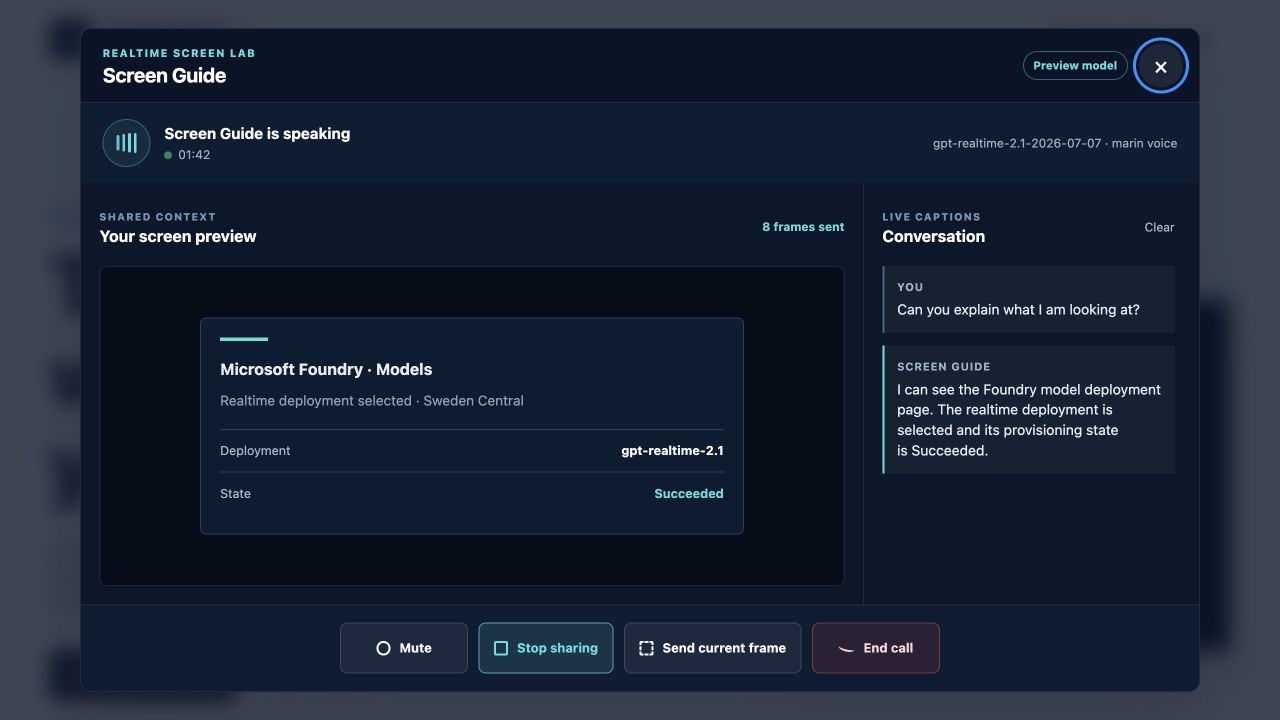
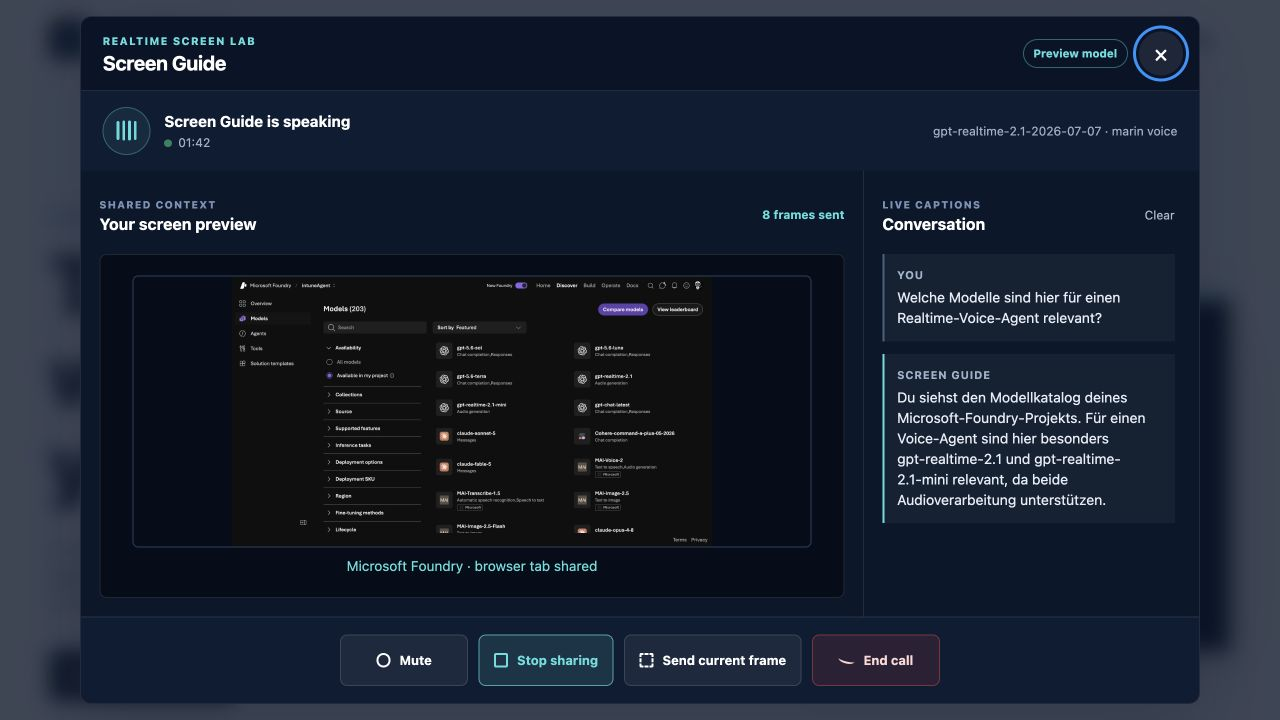
Improve screen sharing preview and language matching

diff --git a/examples/realtime-voice-screen-share/web/app.js b/examples/realtime-voice-screen-share/web/app.js
@@ -92,7 +92,7 @@ function blobToDataUrl(blob) {
 }
 
 async function sendLocalE2EProbe() {
-  const response = await fetch("/docs/realtime-screen-lab-hero.png", { cache: "no-store" });
+  const response = await fetch("/docs/azure-foundry-models.png", { cache: "no-store" });
   if (!response.ok) throw new Error("The browser test screenshot is missing.");
   const imageUrl = await blobToDataUrl(await response.blob());
   const sent = sendEvent({
@@ -101,8 +101,8 @@ async function sendLocalE2EProbe() {
       type: "message",
       role: "user",
       content: [
-        { type: "input_image", image_url: imageUrl, detail: "low" },
-        { type: "input_text", text: "This is a browser screenshot. State the large headline and one privacy boundary visible on the page. Be concise." },
+        { type: "input_image", image_url: imageUrl, detail: "high" },
+        { type: "input_text", text: "Das ist ein Browser-Screenshot aus Microsoft Foundry. Erkläre mir auf Deutsch, welche Modellübersicht ich sehe und nenne zwei Modelle, die für einen Realtime-Voice-Agent relevant sind. Antworte kurz." },
       ],
     },
   });
@@ -110,13 +110,13 @@ async function sendLocalE2EProbe() {
   state.framesSent = 1;
   elements.frameCount.textContent = "1 frame sent";
   elements.screenEmpty.innerHTML = `
-    <img class="e2e-image" src="/docs/realtime-screen-lab-hero.png" alt="Browser screenshot sent to the live Realtime session">
-    <p class="e2e-note">Browser E2E fixture · sent as <code>input_image</code></p>`;
-  addMessage("user", "What is the main headline and one privacy boundary shown in this screenshot?");
+    <img class="e2e-image" src="/docs/azure-foundry-models.png" alt="Microsoft Foundry model catalog sent to the live Realtime session">
+    <p class="e2e-note">Azure browser screenshot · sent as <code>input_image</code></p>`;
+  addMessage("user", "Welche Modellübersicht sehe ich hier und welche Modelle sind für einen Realtime-Voice-Agent relevant?");
   sendEvent({
     type: "response.create",
     response: {
-      instructions: "Answer from the supplied image only. State the large headline and one privacy boundary visible on the page in two short sentences.",
+      instructions: "Antworte ausschließlich auf Deutsch und stütze dich nur auf den bereitgestellten Screenshot. Beschreibe die sichtbare Microsoft-Foundry-Modellübersicht und nenne zwei sichtbare Modelle, die für einen Realtime-Voice-Agent relevant sind. Antworte in höchstens drei kurzen Sätzen.",
     },
   });
 }
@@ -339,7 +339,7 @@ async function startSession() {
       sendEvent({
         type: "response.create",
         response: {
-          instructions: "Greet the user in one short sentence and explain that you can discuss a screen after they explicitly share it.",
+          instructions: "Give one short welcome and explain that you can discuss a screen after the user explicitly shares it. For every later answer, use the language of the user's latest spoken question.",
         },
       });
     }
@@ -396,7 +396,7 @@ function captureFrame(force = false) {
     item: {
       type: "message",
       role: "user",
-      content: [{ type: "input_image", image_url: imageUrl, detail: "low" }],
+      content: [{ type: "input_image", image_url: imageUrl, detail: force ? "high" : "low" }],
     },
   });
   if (!sent) return false;
@@ -451,7 +451,7 @@ async function startScreenShare() {
       sendEvent({
         type: "response.create",
         response: {
-          instructions: "A screen frame was shared. Confirm that you can see it, describe only the high-level visible context, and ask what the user wants to inspect.",
+          instructions: "A screen frame was shared. In the language of the user's latest spoken turn, confirm that you can see it, describe only the high-level visible context, and ask what the user wants to inspect. If there is no spoken turn yet, keep the confirmation very short.",
         },
       });
     };
@@ -559,15 +559,10 @@ function openPreviewMode() {
   elements.share.querySelector("span:last-child").textContent = "Stop sharing";
   elements.sendFrame.disabled = false;
   elements.screenEmpty.innerHTML = `
-    <div class="demo-context" aria-label="Illustrative shared screen preview">
-      <span class="demo-bar"></span>
-      <strong>Microsoft Foundry · Models</strong>
-      <p>Realtime deployment selected · Sweden Central</p>
-      <div><span>Deployment</span><b>gpt-realtime-2.1</b></div>
-      <div><span>State</span><b class="demo-success">Succeeded</b></div>
-    </div>`;
-  addMessage("user", "Can you explain what I am looking at?");
-  addMessage("agent", "I can see the Foundry model deployment page. The realtime deployment is selected and its provisioning state is Succeeded.");
+    <img class="e2e-image" src="/docs/azure-foundry-models.png" alt="Microsoft Foundry model catalog shared with Screen Guide">
+    <p class="e2e-note">Microsoft Foundry · browser tab shared</p>`;
+  addMessage("user", "Welche Modelle sind hier für einen Realtime-Voice-Agent relevant?");
+  addMessage("agent", "Du siehst den Modellkatalog deines Microsoft-Foundry-Projekts. Für einen Voice-Agent sind hier besonders gpt-realtime-2.1 und gpt-realtime-2.1-mini relevant, da beide Audioverarbeitung unterstützen.");
 }
 
 elements.start.addEventListener("click", startSession);

diff --git a/examples/realtime-voice-screen-share/web/styles.css b/examples/realtime-voice-screen-share/web/styles.css
@@ -582,6 +582,7 @@ footer {
   display: flex;
   min-height: 0;
   flex-direction: column;
+  overflow: hidden;
   padding: 1.15rem;
   background: #09172a;
 }
@@ -611,14 +612,29 @@ footer {
   font-weight: 700;
 }
 
-.screen-empty,
-.screen-preview {
+.screen-viewport {
+  position: relative;
+  display: grid;
   width: 100%;
-  min-height: 20rem;
+  min-width: 0;
+  min-height: 16rem;
   flex: 1;
+  place-items: center;
+  overflow: hidden;
   border: 1px solid rgb(255 255 255 / 0.11);
   border-radius: 0.45rem;
   background: #050d19;
+}
+
+.screen-empty,
+.screen-preview {
+  width: 100%;
+  height: 100%;
+  min-width: 0;
+  min-height: 0;
+  max-width: 100%;
+  max-height: 100%;
+  grid-area: 1 / 1;
 }
 
 .screen-empty {
@@ -725,7 +741,9 @@ footer {
 
 .screen-preview {
   display: block;
+  background: #020812;
   object-fit: contain;
+  object-position: center;
 }
 
 .screen-preview[hidden] {
@@ -915,10 +933,19 @@ footer {
     grid-template-columns: 1fr;
   }
 
-  .screen-empty,
-  .screen-preview,
+  .screen-stage,
   .transcript {
     min-height: 15rem;
+  }
+
+  .screen-stage {
+    overflow: visible;
+  }
+
+  .screen-viewport {
+    min-height: clamp(15rem, 56vw, 28rem);
+    flex: none;
+    aspect-ratio: 16 / 9;
   }
 
   .call-controls {

diff --git a/examples/realtime-voice-screen-share/web/index.html b/examples/realtime-voice-screen-share/web/index.html
@@ -143,12 +143,14 @@
               </div>
               <span id="frame-count" class="frame-count">0 frames sent</span>
             </div>
-            <div id="screen-empty" class="screen-empty">
-              <div class="screen-symbol" aria-hidden="true"><span></span></div>
-              <strong>No screen is being shared</strong>
-              <p>Start with voice. Share a surface only when the agent needs visual context.</p>
+            <div class="screen-viewport">
+              <div id="screen-empty" class="screen-empty">
+                <div class="screen-symbol" aria-hidden="true"><span></span></div>
+                <strong>No screen is being shared</strong>
+                <p>Start with voice. Share a surface only when the agent needs visual context.</p>
+              </div>
+              <video id="screen-preview" class="screen-preview" autoplay muted playsinline hidden></video>
             </div>
-            <video id="screen-preview" class="screen-preview" autoplay muted playsinline hidden></video>
             <canvas id="capture-canvas" hidden></canvas>
             <canvas id="thumb-canvas" width="32" height="32" hidden></canvas>
           </section>

diff --git a/examples/realtime-voice-screen-share/tests/test_app.py b/examples/realtime-voice-screen-share/tests/test_app.py
@@ -34,6 +34,8 @@ def test_session_config_keeps_sensitive_instructions_on_server():
     assert session["audio"]["output"]["voice"] == "marin"
     assert session["audio"]["input"]["turn_detection"]["interrupt_response"] is True
     assert session["reasoning"]["effort"] == "low"
+    assert "user's latest spoken question" in session["instructions"]
+    assert "speaks German, answer in German" in session["instructions"]
     assert "api_key" not in config
     assert "access_token" not in config
     assert "client_secret" not in config
@@ -50,7 +52,7 @@ def test_health_does_not_return_credentials():
 
 def test_browser_e2e_fixture_is_served():
     client = TestClient(app_module.app)
-    response = client.get("/docs/realtime-screen-lab-hero.png")
+    response = client.get("/docs/azure-foundry-models.png")
 
     assert response.status_code == 200
     assert response.headers["content-type"] == "image/png"

diff --git a/examples/realtime-voice-screen-share/app.py b/examples/realtime-voice-screen-share/app.py
@@ -74,6 +74,8 @@ def session_config(deployment: str, voice: str) -> dict[str, Any]:
                 "Never claim to see a screen unless an image is present in the conversation. "
                 "Describe only visible evidence, say when text is unreadable, and ask before making assumptions. "
                 "Do not request secrets, passwords, tokens, personal data, or a broader screen share. "
+                "Always answer in the language of the user's latest spoken question. "
+                "When the user speaks German, answer in German; if the language changes, switch immediately. "
                 "Use short spoken answers unless the user asks for detail."
             ),
             "reasoning": {"effort": "low"},

diff --git a/examples/realtime-voice-screen-share/README.md b/examples/realtime-voice-screen-share/README.md
@@ -13,13 +13,14 @@ understand the flow:
 - a Realtime data channel for events and captions;
 - explicit `getDisplayMedia()` consent;
 - changed, downscaled JPEG frames sent as `input_image` conversation items;
+- high-detail first/manual frames for readable UI text and low-detail automatic updates;
 - a visible preview, frame counter, mute control, and transcript.
 
 ![The browser lab landing page](docs/realtime-screen-lab-hero.png)
 
-The browser E2E path created a real WebRTC session, sent the screenshot above
-as one `input_image`, and received a grounded answer from the deployed model:
-"Talk through what is on your screen" and "your choice of screen."
+The browser E2E path created a real WebRTC session, sent a browser-captured
+Microsoft Foundry model catalog as one `input_image`, asked a German question,
+and received a grounded German answer from the deployed model.
 
 ![Live Realtime answer grounded in the browser screenshot](docs/realtime-e2e-result.png)
 
@@ -123,8 +124,8 @@ Open <http://127.0.0.1:8000>.
 
 For a reproducible local browser proof without granting microphone access, open
 `http://127.0.0.1:8000/?e2e=1`. On localhost only, this creates a silent WebRTC
-audio track and sends the browser-generated documentation screenshot as an
-`input_image`. The normal page never uses this path: it requests the real
+audio track and sends the browser-captured Microsoft Foundry model catalog as
+an `input_image`. The normal page never uses this path: it requests the real
 microphone and the native screen picker.
 
 1. Select **Start voice session** and allow microphone access.
@@ -147,8 +148,10 @@ Screen sharing is not a video track sent to the model. The implementation:
 4. Skips the frame when the mean pixel change is below the threshold.
 5. Downscales the longest edge to 1280 pixels.
 6. Encodes the result as a 68% quality JPEG.
-7. Sends an `input_image` conversation item over the Realtime data channel.
-8. Stops after 120 frames per call.
+7. Sends first and manually requested frames with `detail: high` for readable UI
+   text; automatic changed-frame updates use `detail: low`.
+8. Sends the `input_image` conversation item over the Realtime data channel.
+9. Stops after 120 frames per call.
 
 The model receives still images, not the full screen-capture video stream. That
 keeps the example understandable and gives the UI a precise frame counter.
